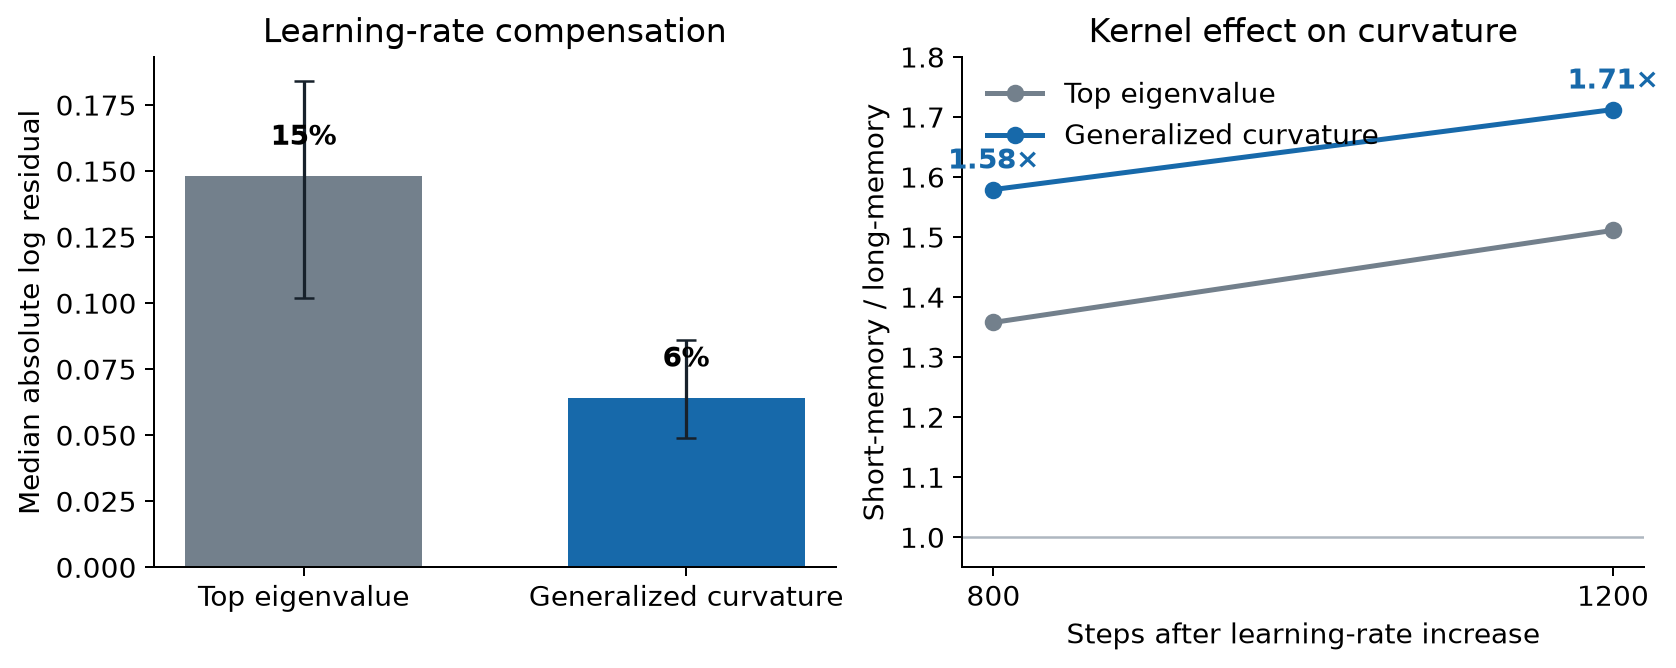
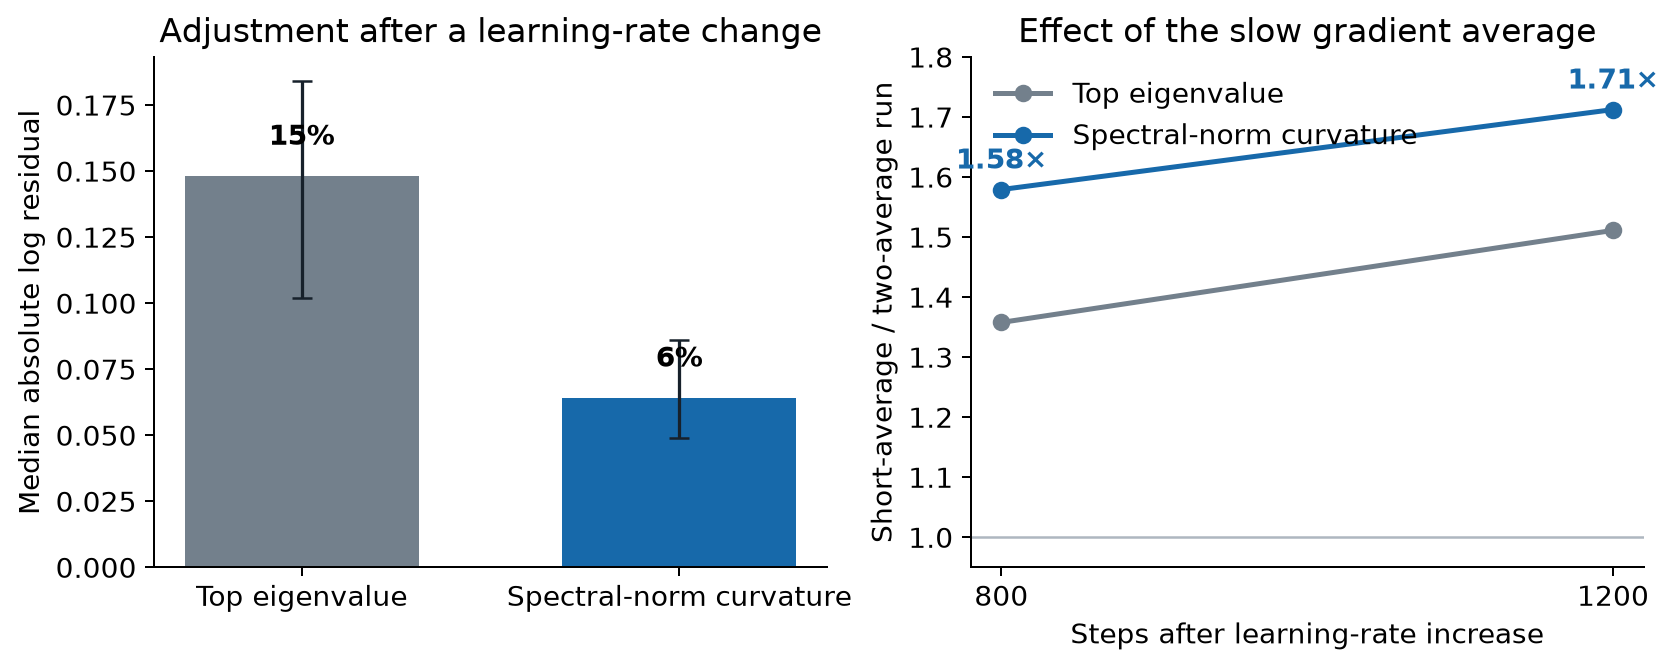
rewrite Muon edge report from the experiment

diff --git a/reports/muon-edge-memory-2026-09-02/index.html b/reports/muon-edge-memory-2026-09-02/index.html
@@ -3,7 +3,7 @@
 <head>
   <meta charset="utf-8">
   <meta name="viewport" content="width=device-width, initial-scale=1">
-  <title>Muon's edge remembers the gradient history</title>
+  <title>Why momentum changes Muon's edge of stability</title>
   <script>
     window.MathJax = {tex: {inlineMath: [['$','$'], ['\\(','\\)']], displayMath: [['\\[','\\]']]}};
   </script>
@@ -22,10 +22,8 @@
     h2 { margin:48px 0 14px; padding-top:10px; border-top:1px solid var(--line); font-size:27px; }
     p { margin:10px 0 15px; }
     .dek { max-width:790px; color:var(--muted); font:20px/1.45 Inter,ui-sans-serif,system-ui,sans-serif; }
-    .question,.result,.pending { margin:25px 0; padding:18px 22px; border-left:5px solid var(--blue); background:#eef6fc; }
-    .result { border-color:var(--green); background:#edf8f4; }
-    .pending { border-color:var(--amber); background:#fff8e8; }
-    .def { margin:22px 0; padding:14px 18px; border:1px solid var(--line); border-left:5px solid var(--amber); background:var(--wash); }
+    .result,.def { margin:24px 0; padding:17px 21px; border-left:5px solid var(--green); background:#edf8f4; }
+    .def { border-color:var(--amber); background:#fff8e8; }
     .label { color:var(--muted); font:700 12px/1.2 Inter,ui-sans-serif,system-ui,sans-serif; letter-spacing:.08em; text-transform:uppercase; }
     table { width:100%; margin:20px 0 30px; border-collapse:collapse; font:14px/1.42 Inter,ui-sans-serif,system-ui,sans-serif; }
     th { text-align:left; vertical-align:bottom; color:#34404c; background:var(--wash); }
@@ -33,41 +31,58 @@
     td:first-child { font-weight:700; }
     .good { color:var(--green); font-weight:700; }
     .bad { color:var(--red); font-weight:700; }
-    .small { color:var(--muted); font-size:14px; }
-    .flow { display:grid; grid-template-columns:1fr 38px 1fr 38px 1fr; align-items:center; gap:7px; margin:25px 0; font:14px/1.4 Inter,ui-sans-serif,system-ui,sans-serif; }
-    .flow div:nth-child(odd) { min-height:96px; padding:14px; border:1px solid var(--line); border-radius:6px; background:var(--wash); }
-    .arrow { color:var(--blue); text-align:center; font-size:25px; }
     figure { margin:28px 0 34px; }
     figure img { display:block; width:100%; height:auto; }
     figcaption { margin-top:9px; color:var(--muted); font:14px/1.45 Inter,ui-sans-serif,system-ui,sans-serif; }
-    @media (max-width:720px) {
-      main{margin:0;padding:34px 22px} h1{font-size:34px}
-      .flow{grid-template-columns:1fr}.arrow{transform:rotate(90deg)}
-    }
+    .small { color:var(--muted); font-size:14px; }
+    @media (max-width:720px) { main{margin:0;padding:34px 22px} h1{font-size:34px} }
   </style>
 </head>
 <body><main>
-  <h1>Muon's edge remembers the gradient history</h1>
-  <p class="dek">A long-memory momentum kernel lets curvature fall after the learning rate rises. A short-memory kernel with nearly the same period-two attenuation does not. Muon's edge of stability is therefore a property of the momentum–polar recurrence.</p>
+  <h1>Why momentum changes Muon's edge of stability</h1>
+  <p class="dek">Changing the learning rate makes curvature move in the opposite direction over the next thousand training steps. That response disappears when we remove Muon's long gradient average.</p>
 
-  <div class="question">
-    <div class="label">Question</div>
-    <p>What quantity does momentum regulate when a normalized matrix-sign optimizer operates at the edge of stability?</p>
-  </div>
+  <p>We studied a 12-layer, width-768 transformer trained with Muon on FineWeb at NanoGPT speedrun scale. At training step 2,250, we copied the same model and optimizer state into three runs that saw the same minibatches. One run kept the learning rate fixed. The other two multiplied it by 1.30 or 0.77. All three runs remained stable.</p>
 
-  <p>This study uses a 12-layer, width-768 transformer language model trained with Muon on FineWeb at NanoGPT speedrun scale. Measurements cover all 72 hidden weight matrices; the kernel and learning-rate interventions start from one saved mid-training state.</p>
+  <p>For each of the model's 72 hidden weight matrices, we measured \(\lambda_1\), the largest eigenvalue of the local Hessian for that matrix. The table reports the median change from the shared starting state.</p>
 
-  <h2>The causal result</h2>
-  <p>Kernel memory determines whether Muon compensates for a larger learning rate. Both comparisons start from the same saved model and optimizer state, use the same minibatches, and raise the learning rate by the same factor. The deployed kernel mixes gradient averages with average lags of roughly 6 and 49 steps. The short-memory comparison uses only the 6-step average.</p>
-
-  <p>The kernels attenuate a perfectly alternating gradient by almost the same amount. Their long-run responses are qualitatively different.</p>
+  <h2>Curvature moves after the learning rate changes</h2>
 
   <table>
     <thead>
       <tr>
-        <th>Steps after the learning-rate increase</th>
-        <th>Change in top Hessian eigenvalue, deployed long-memory kernel</th>
-        <th>Change in top Hessian eigenvalue, short-memory kernel</th>
+        <th>Training steps after the change</th>
+        <th>Change in \(\lambda_1\) after multiplying the learning rate by 1.30</th>
+        <th>Change in \(\lambda_1\) after multiplying the learning rate by 0.77</th>
+      </tr>
+    </thead>
+    <tbody>
+      <tr><td>50</td><td>−5%</td><td>+5%</td></tr>
+      <tr><td>400</td><td>−23%</td><td>+23%</td></tr>
+      <tr><td>800</td><td>−27%</td><td>+39%</td></tr>
+      <tr><td>1,200</td><td>−32%</td><td>+38%</td></tr>
+    </tbody>
+  </table>
+
+  <p>The curvature response has the sign expected at the edge of stability: a larger learning rate is followed by lower curvature, while a smaller learning rate is followed by higher curvature. The response takes hundreds of steps. It is a change in the network reached by training, not an algebraic change inside Muon's polar map.</p>
+
+  <div class="def">
+    <div class="label">Measured curvature adjustment</div>
+    <p>Let \(\eta_0\lambda_{1,0}\) denote the product before the learning-rate change. We call the later response a curvature adjustment when \(\eta_t\lambda_{1,t}\) moves back toward that earlier product. This describes the measured trajectory. It does not assert exact equality or imply that either run approached divergence.</p>
+  </div>
+
+  <h2>The slow gradient average is required for the curvature response</h2>
+
+  <p>We repeated the 1.30 learning-rate increase from the same saved state and with the same minibatches, changing only the momentum hyperparameters. The two-average run mixed exponential gradient averages with average lags of about 6 and 49 steps. The short-average run retained only the 6-step average.</p>
+
+  <p>For a gradient component that flips sign every step, both momentum settings reduce its amplitude by almost the same factor. Their curvature trajectories nevertheless separate over the next 1,200 steps.</p>
+
+  <table>
+    <thead>
+      <tr>
+        <th>Training steps after the increase</th>
+        <th>Change in \(\lambda_1\), two-average momentum</th>
+        <th>Change in \(\lambda_1\), short-average momentum</th>
       </tr>
     </thead>
     <tbody>
@@ -77,15 +92,16 @@
     </tbody>
   </table>
 
-  <p>The short-memory run also loses the coherent period-two gradient field and ends with substantially worse validation loss. By 1,200 steps, its generalized curvature (defined below) is 1.71 times the long-memory value. The effect is uniform across matrices. The long-memory component is carrying the feedback that flattens the bulk curvature seen by spectral descent. Matching the kernel's response at period two does not match that feedback.</p>
+  <p>The 49-step gradient average is the specific momentum property isolated by this comparison. With it, the network moves to lower curvature after the learning-rate increase. Without it, curvature returns to its starting level and training stagnates. The final validation losses are about 3.45 and 3.544, respectively. A scalar that measures only the response to exact sign alternation cannot explain the difference.</p>
 
   <div class="result">
-    <div class="label">Consequence</div>
-    <p>A theory based only on the kernel's period-two gain cannot explain the intervention. The state must include how the momentum buffers preserve the gradient field across time.</p>
+    <div class="label">What the comparison establishes</div>
+    <p>Momentum affects the slow evolution of curvature through information retained in its gradient averages. The relevant state includes more than the current weights, current gradient, and current Hessian.</p>
   </div>
 
-  <h2>The recurrence supplies the stability object</h2>
-  <p>Muon maintains several exponential averages of each gradient matrix. Their weighted sum is mixed with the current gradient, mapped to its polar factor, and used as a fixed-size update:</p>
+  <h2>The stability calculation must include the momentum buffers</h2>
+
+  <p>Muon first combines the current gradient matrix with exponential gradient averages, then applies the polar map. For one weight matrix, the implemented recurrence is</p>
 
   \[
     m_{j,t}=\beta_jm_{j,t-1}+(1-\beta_j)g_t,\qquad
@@ -95,9 +111,7 @@
     X_{t+1}=(1-\eta d)X_t-\eta s\,\operatorname{polar}(p_t).
   \]
 
-  <p>Here \(m_{j,t}\) are the momentum buffers; \(\beta_j\) and \(a_j\) set their time constants and mixture weights; \(\alpha\) sets the total momentum mixture; \(d\) is weight decay; and \(s\) is Muon's rectangular-matrix scale.</p>
-
-  <p>A perturbation changes the weights, every momentum buffer, and the point at which the polar map is differentiated. Linearizing one matrix block gives</p>
+  <p>Here \(m_{j,t}\) is one gradient average, \(\beta_j\) sets its average lag, \(a_j\) sets its relative weight, and \(\alpha\) sets the total momentum mixture. The remaining scalars \(d\) and \(s\) are weight decay and Muon's matrix-shape scale. A perturbation changes both the weights and every gradient average:</p>
 
   \[
   \begin{aligned}
@@ -111,56 +125,38 @@
   \end{aligned}
   \]
 
-  <div class="def"><b>Fast criticality.</b> The local stability boundary is reached when the leading multiplier of this augmented recurrence has magnitude one. It depends on the Hessian, the momentum-buffer contents, the temporal kernel, and the realized pre-polar matrix \(p_t\). A scalar computed from the current Hessian omits three of those inputs.</div>
+  <p>The exact local stability boundary is determined by the largest multiplier of this augmented recurrence. Here \(H_t\) is the Hessian operator at \(X_t\), and \(D\operatorname{polar}_{p_t}\) is the derivative of the polar map at \(p_t\). The multiplier depends on the Hessian, the contents of the gradient averages, their decay rates, and \(p_t\). No scalar computed from the current Hessian contains all of this information.</p>
 
-  <p>This conclusion is also forced by scale invariance. Multiplying the loss by a positive constant multiplies every gradient and momentum buffer by that constant, while the exact polar direction stays unchanged. Any Hessian quantity that scales with the loss cannot be the complete critical invariant.</p>
+  <p>Scale invariance gives the same conclusion. Multiplying the loss by a positive constant rescales the gradients, the gradient averages, and the Hessian, while the exact polar direction is unchanged. A Hessian quantity that rescales with the loss cannot be Muon's complete critical invariant.</p>
 
-  <h2>The alternating field changes curvature slowly</h2>
-  <p>Fast oscillations still create a simple slow effect. Write the weights as a slowly moving center plus an alternating displacement:</p>
+  <h2>An alternating gradient field produces a slow flattening force</h2>
 
-  \[
-    X_t=\bar X+(-1)^taZ.
-  \]
+  <p>The experiment also reveals a candidate mechanism. After the learning rate increases, a coherent gradient component that changes sign every step grows immediately. Curvature falls only later. Removing the 49-step average suppresses both the persistent alternating component and the later curvature decrease.</p>
 
-  <p>A third-order expansion of the gradient contains an even term:</p>
+  <p>Write one alternating weight displacement as \(X_t=\bar X+(-1)^taZ\), where \(a\) is its amplitude and \(Z\) is its matrix direction. Expanding the gradient around the slowly moving center \(\bar X\) gives</p>
 
   \[
     g_t=\bar g+(-1)^taH[Z]+\frac{a^2}{2}D^3L[Z,Z,\cdot]+O(a^3).
   \]
 
-  <p>When \(Z\) locally maximizes the Hessian quadratic form over the spectral-norm unit ball, Danskin's theorem identifies this third-order contraction with the gradient of the corresponding generalized curvature,</p>
+  <p>The linear term changes sign and cancels over two steps. The quadratic-in-amplitude term has the same sign on both steps. Let \(q\) denote the alternating component of the matrix presented to the polar map. Averaging the two polar updates leaves the slow contribution</p>
 
   \[
-    M(\bar X)=\max_{\lVert Y\rVert_2\le1}\langle Y,H(\bar X)[Y]\rangle,
-    \qquad
-    \nabla M=D^3L[Z,Z,\cdot].
-  \]
-
-  <p>Let \(q\) be the alternating component of the matrix presented to the polar map. Averaging the two polar updates sends the even term through the derivative of that map:</p>
-
-  \[
-    \Delta_{\rm cubic}\bar X
+    \Delta\bar X_{\rm slow}
     \simeq
     -\eta s\frac{a^2}{2}
-    D\operatorname{polar}_{q}[\nabla M].
+    D\operatorname{polar}_{q}\!\left[D^3L[Z,Z,\cdot]\right],
   \]
 
-  <p>The polar factor is the gradient of the nuclear norm. Its derivative is therefore the Hessian of a convex function and is positive semidefinite wherever the polar factor is differentiable. This term reduces \(M\) along the directions visible to that derivative. Ordinary training may sharpen or flatten \(M\); the observed level is where that drift balances the oscillation-induced flattening.</p>
+  <p>The slow contribution has a flattening sign. The polar factor is the gradient of the nuclear norm, so its derivative is positive semidefinite wherever it is differentiable. For a fixed active direction \(Z\), this term moves toward lower curvature \(\langle Z,H[Z]\rangle\).</p>
 
-  <div class="flow" aria-label="Mechanism from momentum memory to curvature compensation">
-    <div><b>Kernel memory</b><br>preserves a coherent alternating gradient field</div>
-    <span class="arrow">→</span>
-    <div><b>Third-order response</b><br>turns its squared amplitude into a curvature gradient</div>
-    <span class="arrow">→</span>
-    <div><b>Polar mobility</b><br>converts that gradient into slow flattening</div>
-  </div>
+  <p>This calculation explains the observed order of events: momentum sustains an alternating gradient field, and third-order geometry converts its squared amplitude into slow curvature change. Rotation of \(Z\) adds a term with no fixed sign, so the calculation supplies a local flattening mechanism rather than an exact law for the final curvature.</p>
 
-  <p>The derivation holds for a frozen active direction. Rotation of that direction contributes another term whose sign is not fixed. The calculation supplies a flattening mechanism, not a proof that one scalar stays constant.</p>
+  <p>A direct scalar test shows what is still missing. The negative inner product between the alternating parts of consecutive updates and gradients is reproducible across chaotic reruns and grows after the learning-rate increase. Dividing it by the analogous non-alternating quantity removes almost the entire intervention response, and the resulting ratio predicts later matrix-by-matrix curvature change with the wrong sign. Field amplitude alone is insufficient; the polar derivative and the state of the gradient averages also matter.</p>
 
-  <p>The alternating field is directly measurable. Cycle work is the negative inner product of the alternating parts of consecutive updates and gradients; slow work applies the same construction to their non-alternating parts. Raising the learning rate increases median cycle work from 221 to 390, and an independent replay reproduces 391 despite rapid trajectory divergence. The ratio of cycle work to slow work barely changes, however, and a cross-matrix prediction fixed before scoring gives the wrong sign for later curvature velocity. Coherent work is therefore part of the mechanism, but that normalized ratio is not its state variable.</p>
+  <h2>The realized Muon update is far from its one-step loss boundary</h2>
 
-  <h2>The constant 2 has a narrow meaning</h2>
-  <p>For the actual shape-scaled update \(U_t=s\,\operatorname{polar}(p_t)\), the quadratic one-step loss change is</p>
+  <p>The augmented recurrence governs fast stability, while a different ratio tests whether the actual update direction is locally limited by curvature. Define the shape-scaled update \(U_t=s\,\operatorname{polar}(p_t)\). Its quadratic one-step loss change is</p>
 
   \[
     \Delta L_{\rm quad}
@@ -168,116 +164,45 @@
      +\frac{\eta^2}{2}\langle U_t,H_t[U_t]\rangle.
   \]
 
-  <p>Define the state-conditioned ratio</p>
+  <p>The relevant ratio is</p>
 
   \[
     \mu_{{\rm loss},t}
     =\frac{\langle U_t,H_t[U_t]\rangle}
-           {\langle g_t,U_t\rangle}.
+           {\langle g_t,U_t\rangle}
   \]
 
-  <p>The quadratic loss change is zero when \(\eta\mu_{\rm loss}=2\). This equality defines a local loss boundary. It does not show that training selects the boundary.</p>
+  <p>The quadratic one-step loss boundary occurs when \(\eta\mu_{\rm loss}=2\). Replays of the actual momentum-conditioned update place it far below that boundary.</p>
 
-  <p>A single-mode oscillation makes the ambiguity precise. If its displacement uses a fraction \(\kappa\) of the maximum allowed by the normalized step, then</p>
+  <figure>
+    <img src="assets/mu_loss_boundary.png" alt="Log-scale plot showing eta times mu loss between 0.053 and 0.069 at three training states, far below the one-step loss boundary at 2.">
+    <figcaption><b>Muon's realized update has little curvature per unit descent.</b> Each point is the median across 72 matrices at one saved training state; vertical lines show interquartile ranges. No matrix lies in the interval from 1.5 to 2.5, fixed before scoring.</figcaption>
+  </figure>
+
+  <p>The median ratio rises mildly with training age but stays in the same low range. Muon is therefore not operating at the edge along its realized update direction. The edge behavior resides in high-curvature components of the gradient field that the polar-of-momentum update largely avoids. The level and age trend of this low-ratio regime remain unexplained.</p>
+
+  <h2>Spectral-norm curvature tracks the learning-rate response more cleanly</h2>
+
+  <p>The polar map uses spectral-norm geometry, so the top Euclidean Hessian eigenvalue is not its natural curvature summary. The corresponding generalized curvature is</p>
 
   \[
-    \eta\mu_{\rm loss}\simeq\frac{2}{\kappa}.
+    M(H)=\max_{\lVert Z\rVert_2\le1}\langle Z,H[Z]\rangle.
   \]
 
-  <p>Curvature cancels from this approximation. A ratio near 2 could therefore arise because the oscillation saturates the step budget. The replay measurement distinguishes that identity regime from an ordinary low-curvature descent direction.</p>
+  <p>This maximum combines curvature from many Euclidean Hessian directions. Its median is 11–14 times \(\lambda_1\) across the measured checkpoints. Individual matrix ratios range from about 2 to 57.</p>
 
   <figure>
-    <img src="assets/mu_loss_boundary.png" alt="Log-scale plot showing eta times mu loss between 0.053 and 0.069 at three states, far below the one-step loss boundary at 2.">
-    <figcaption><b>The realized Muon step is not at its one-step loss boundary.</b> Points show medians across 72 matrices; lines span the interquartile ranges. No matrix lies in the interval from 1.5 to 2.5, fixed before scoring. Three states spanning a thirteen-fold range in training age remain in the same low-ratio regime.</figcaption>
+    <img src="assets/measured_curvature_summary.png" alt="Two panels showing generalized curvature has a smaller learning-rate residual than the top Hessian eigenvalue and rises more under short-average momentum.">
+    <figcaption><b>The spectral-norm curvature is the cleaner coordinate for the slow response.</b> Left: after subtracting drift measured in the fixed-learning-rate run, \(\eta M\) misses perfect adjustment by about 6%, versus 15% for \(\eta\lambda_1\); bars are medians and lines are interquartile ranges across 66 matrices. Right: one point is the median ratio between the short-average and two-average runs at the stated time.</figcaption>
   </figure>
 
-  <div class="result">
-    <div class="label">Loss-boundary replay</div>
-    <p>The median \(\eta\mu_{\rm loss}\) is 0.053 at step 176, 0.065 at step 1,000, and 0.069 at step 2,250. The corresponding interquartile ranges are [0.035, 0.072], [0.049, 0.092], and [0.056, 0.090]. Muon's realized update therefore has roughly thirty times less curvature per unit descent than a step at the quadratic loss boundary.</p>
-  </div>
-
-  <p>Substituting these values into \(2/\kappa\) would require \(\kappa\approx29\)–31, although \(\kappa\) is a saturation fraction bounded by one. The saturated single-mode identity is excluded in this regime. The edge phenomena live in high-curvature modes of the gradient field that the realized polar-of-momentum update largely avoids.</p>
-
-  <p>The ratio rises mildly with age, yet remains within a factor of 1.3 across a thirteen-fold age range. This stable low-ratio regime is a new empirical regularity; we do not yet have a mechanism for its level or trend.</p>
-
-  <h2>Generalized curvature is a bulk quantity</h2>
-  <p>The spectral-norm geometry combines many Hessian directions. The first completed checkpoints place the generalized spectral-ball curvature between roughly eleven and fourteen times the top Euclidean Hessian eigenvalue for the median matrix. Individual matrix ratios range from about two to fifty-seven.</p>
-
-  <figure>
-    <img src="assets/measured_curvature_summary.png" alt="Two panels showing generalized curvature has a smaller learning-rate residual than the top Hessian eigenvalue and rises more under the short-memory kernel.">
-    <figcaption><b>Generalized curvature is the cleaner response coordinate.</b> Left: after subtracting matched control drift, the product of learning rate and generalized curvature misses perfect compensation by about 6%, versus 15% for the top eigenvalue; bars show medians and lines show interquartile ranges across 66 matrices. Right: the short-memory kernel leaves generalized curvature 1.58–1.71 times higher than the deployed kernel at the same state, minibatches, and learning rate.</figcaption>
-  </figure>
-
-  <table>
-    <thead>
-      <tr>
-        <th>Measured quantity</th>
-        <th>Current result</th>
-        <th>Interpretation</th>
-      </tr>
-    </thead>
-    <tbody>
-      <tr>
-        <td>\(M(H)/\lambda_1(H)\)</td>
-        <td>Median 11–14; matrices span approximately 2–57</td>
-        <td>The spectral-ball maximum measures bulk curvature, not a renamed top eigenvalue.</td>
-      </tr>
-      <tr>
-        <td>Optimization restart gap for \(M(H)\)</td>
-        <td>Approximately 3% at completed checkpoints</td>
-        <td>The numerical maximization is sufficiently resolved for trajectory-scale comparisons.</td>
-      </tr>
-      <tr>
-        <td>Learning-rate compensation after control-drift subtraction</td>
-        <td>\(\eta M\): median log residual 0.064; \(\eta\lambda_1\): 0.148; \(M\) tighter in 65/66 matrices</td>
-        <td>Bulk generalized curvature tracks the changed learning rate more closely than the top eigenvalue.</td>
-      </tr>
-      <tr>
-        <td>Secular variation over 3,700 steps</td>
-        <td>Median log range 0.229 for \(M\), versus 0.522 for \(\lambda_1\)</td>
-        <td>Bulk capacity is steadier along the trajectory, although it still grows with training age.</td>
-      </tr>
-      <tr>
-        <td>Training-age change on the base trajectory</td>
-        <td>Median \(\Delta\log M=+0.861\); 72/72 matrices increase</td>
-        <td>No universal level is visible: generalized curvature grows about 2.4-fold across the measured ages.</td>
-      </tr>
-    </tbody>
-  </table>
-
-  <p>Muon uses normalized updates, so the raw value \(M(H)\) has no universal \(2/\eta\) prediction. Without momentum, the corresponding upper diagnostic is \(sM(H)/\lVert g\rVert_*\). Momentum replaces the nuclear-gradient denominator with the alignment between the raw gradient and the history-conditioned polar direction.</p>
-
-  <h2>What the measurements decide</h2>
-  <p>The completed measurements support a memory-dependent curvature feedback and reject both a threshold correction based only on period-two gain and a loss-boundary pin along the realized update.</p>
-
-  <table>
-    <thead>
-      <tr><th>Observation</th><th>Scientific consequence</th></tr>
-    </thead>
-    <tbody>
-      <tr>
-        <td>\(\eta\mu_{\rm loss}\approx0.067\), with no matrix near 2</td>
-        <td>Muon is not edge-limited along its realized update direction.</td>
-      </tr>
-      <tr>
-        <td>The implied single-mode \(\kappa\) is about 30</td>
-        <td>The saturated collinear identity \(2/\kappa\) does not describe this regime.</td>
-      </tr>
-      <tr>
-        <td>The short-memory kernel leaves \(M\) 1.6–1.7 times higher</td>
-        <td>The memory-dependent field changes bulk curvature itself; the missing state belongs in the temporal feedback law.</td>
-      </tr>
-      <tr>
-        <td>The median ratio moves from 0.053 to 0.069 across steps 176–2,250</td>
-        <td>A stable low-ratio regime may exist, but its level and mild age trend currently lack an explanation.</td>
-      </tr>
-    </tbody>
-  </table>
+  <p>The short-average run leaves \(M\) substantially higher at both measured times. The slow momentum average changes the bulk curvature relevant to Muon's geometry, and does so more uniformly across matrices than it changes \(\lambda_1\).</p>
 
   <div class="result">
     <div class="label">Current answer</div>
-    <p>Momentum is part of the optimizer's stability state. Its useful role here is to preserve a coherent high-curvature gradient field long enough for third-order geometry to regulate bulk curvature. The polar map then spreads the realized update into directions with far less curvature per unit descent. The useful low-dimensional control state, if one exists, must therefore include temporal coherence; a single Hessian threshold cannot supply it.</p>
+    <p>Momentum changes Muon's edge through the closed-loop state formed by its gradient averages and the polar map. The long gradient average sustains an alternating field; third-order geometry turns that field into a slow reduction of spectral-norm curvature. The realized update itself remains far inside its one-step loss boundary. Any useful low-dimensional theory must therefore include temporal coherence in the gradient history. A current-Hessian threshold is insufficient.</p>
   </div>
 
-  <p class="small">The generalized-curvature and loss-boundary results shown here were interpreted under rules fixed before their values were inspected.</p>
-</main></body></html>
+  <p class="small">All learning-rate and momentum comparisons use one saved mid-training state and matched minibatches. The curvature and one-step-loss measurements were interpreted under rules fixed before their values were inspected.</p>
+</main></body>
+</html>
